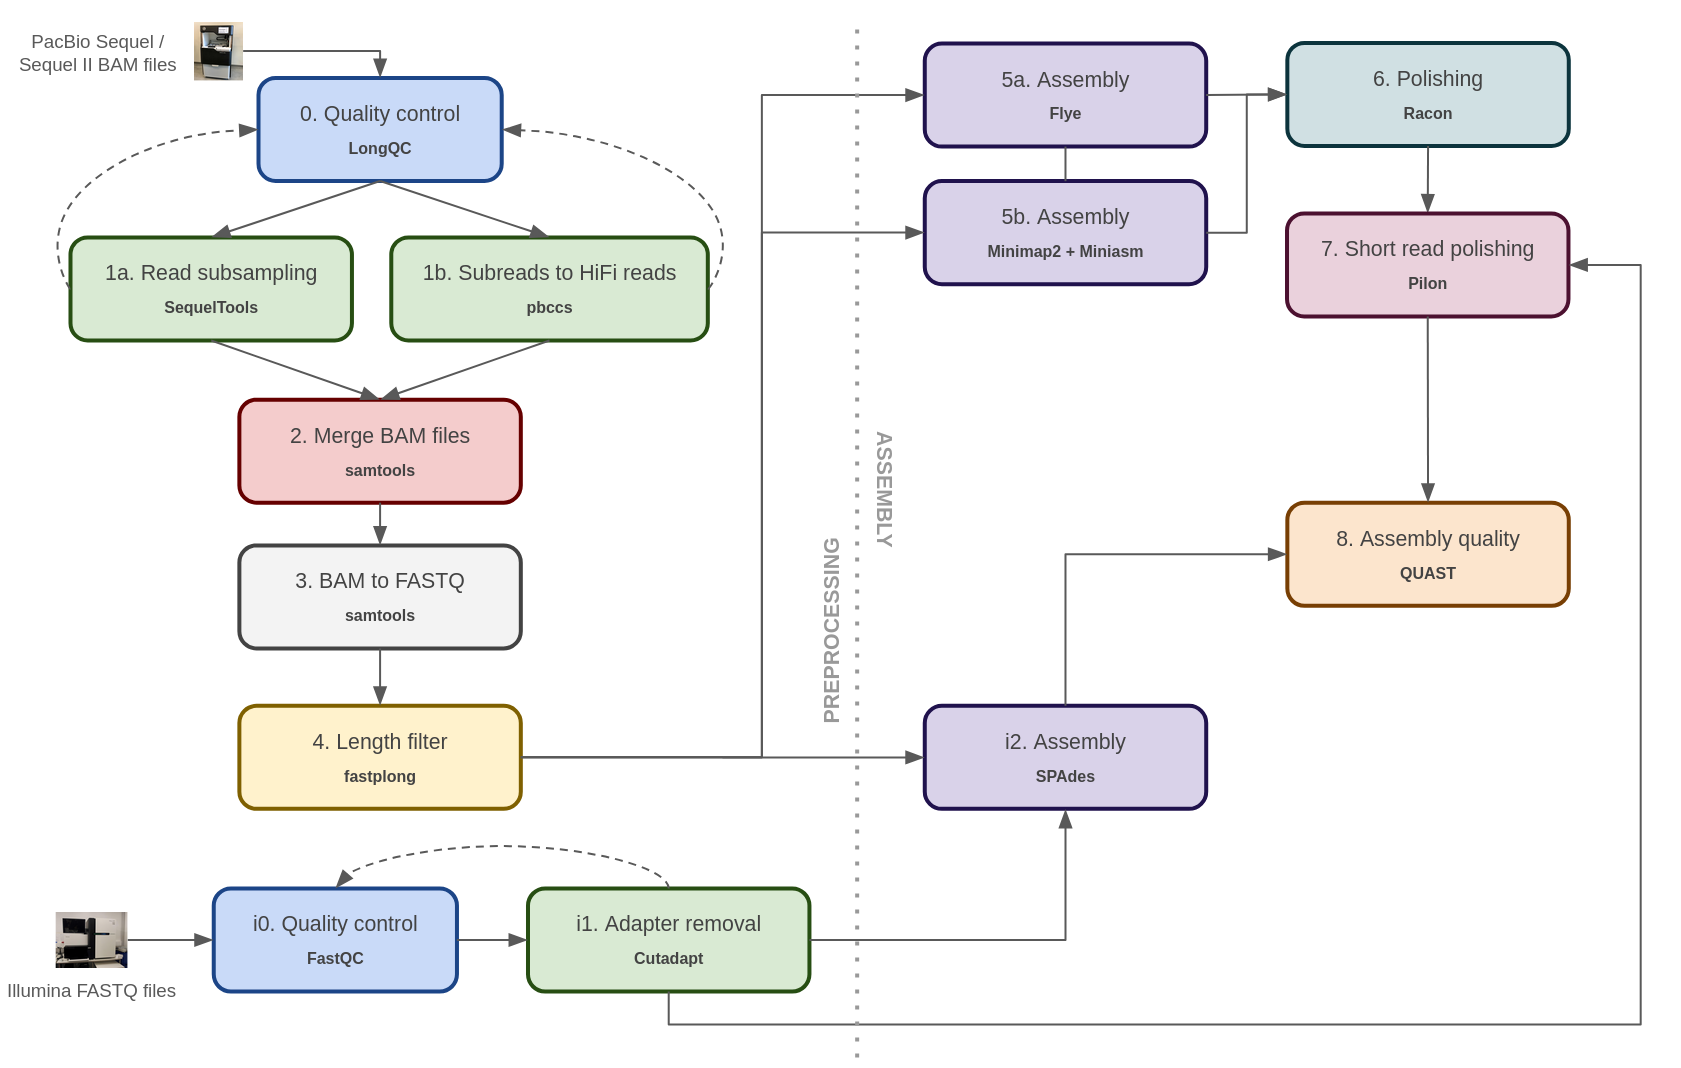
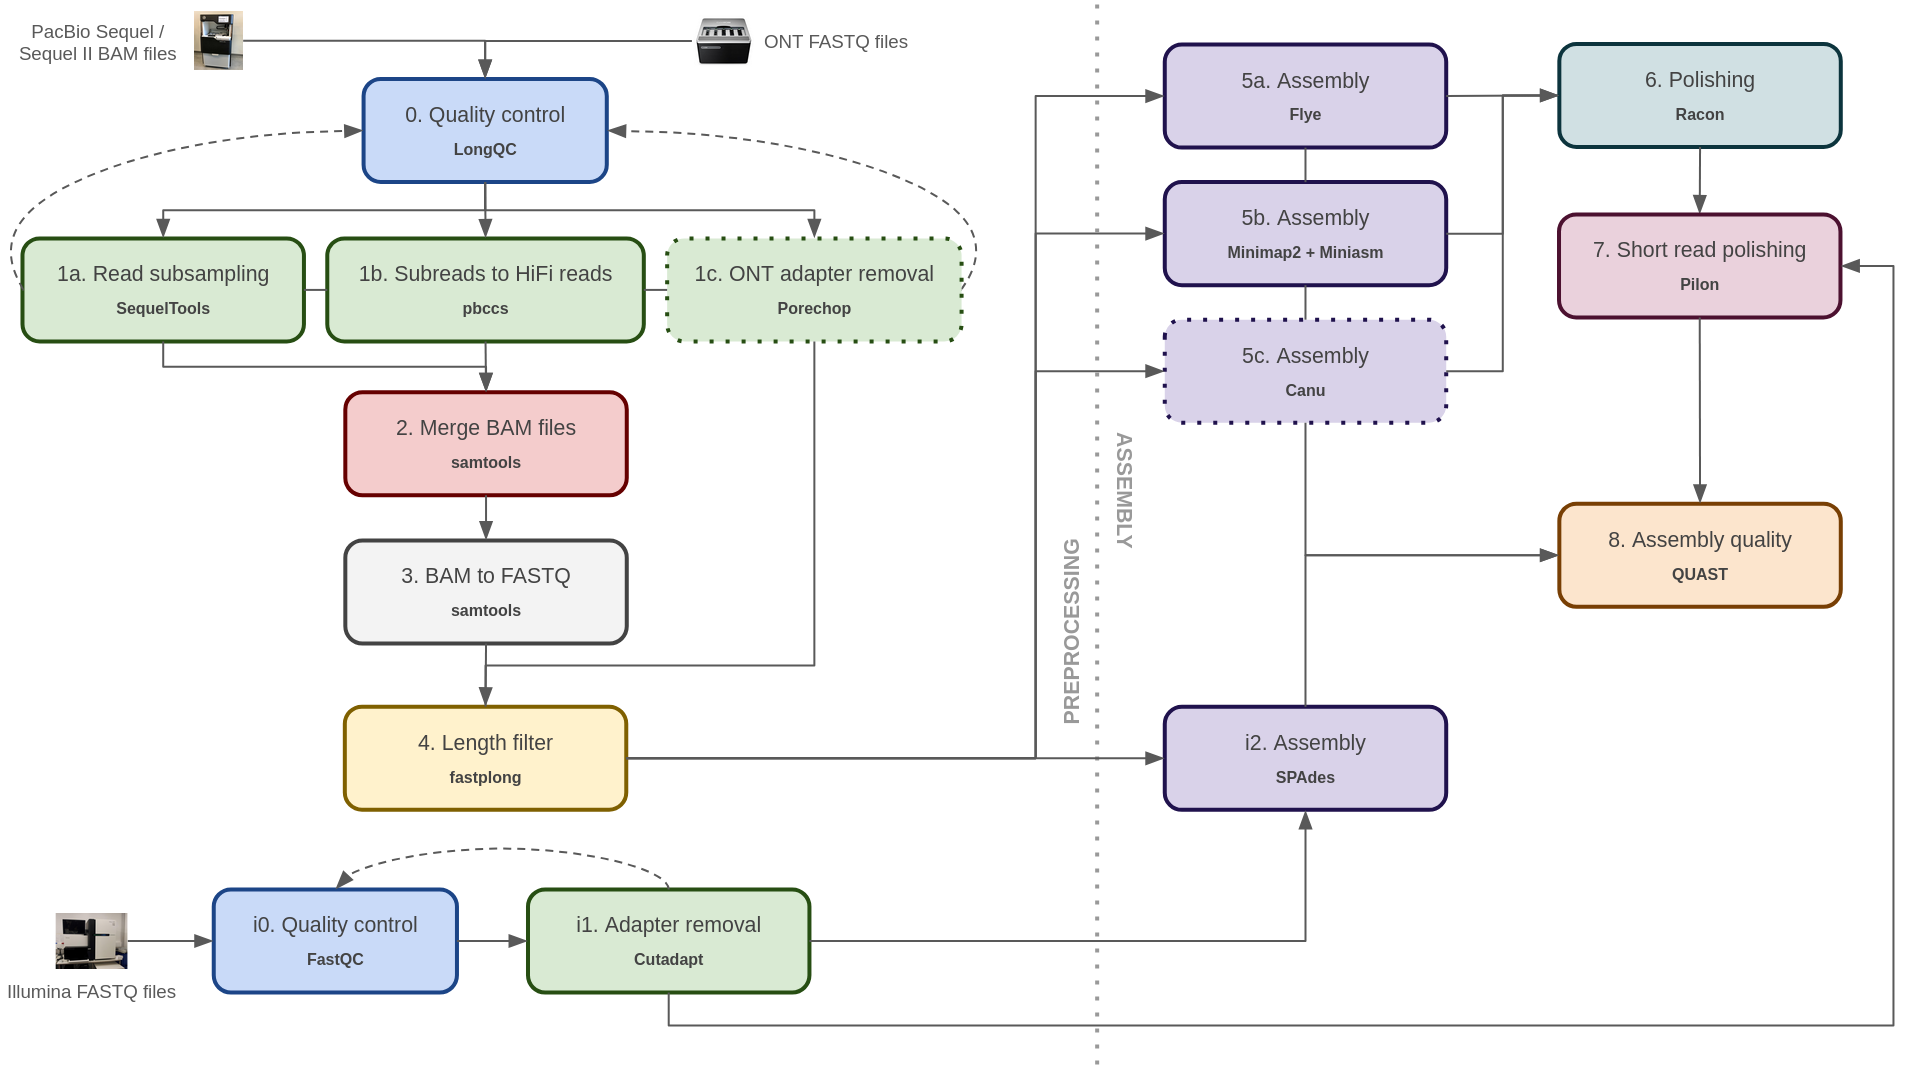
update workflow details and examples, add ONT to preliminar workflow

diff --git a/README.md b/README.md
@@ -1,8 +1,10 @@
 # Fungal Genome Assembly Workflow 🧬🍄
 
-This repository provides a modular, bash-based workflow for fungal genome assembly using PacBio and/or Illumina reads.
+This repository provides a modular, bash-based workflow for fungal genome assembly using PacBio, ONT and/or Illumina reads.
 
 <img src="./img/workflow.png">
+
+Modules with dotted lines are not implemented yet.
 
 ## Before you start
 
@@ -59,13 +61,14 @@ Each module creates logs in your project directory under `/logs`.
 
 For full details on parameters, see comments in `config.sh`. For a visual understanding of the workflow, see the picture above.
 
-## Example: PacBio HiFi assembly from raw subreads
+## Examples
 
 ```bash
+# PacBio HiFi assembly from raw subreads
 ./daemon.sh 0         # Quality Control
 ./daemon.sh 1b        # Convert to CCS (HiFi) [OPTIONAL]
 ./daemon.sh 0 -r      # Repeat QC on processed reads
-./daemon.sh 2         # Merge cells [OPTIONAL]
+./daemon.sh 2         # Merge SMRT cells [OPTIONAL]
 ./daemon.sh 3         # Convert BAM to FASTQ
 ./daemon.sh 4         # Filter by length [OPTIONAL]
 ./daemon.sh 5a        # Assemble with Flye
@@ -74,6 +77,30 @@ For full details on parameters, see comments in `config.sh`. For a visual unders
 ./daemon.sh i1        # Adapter trimming [OPTIONAL]
 ./daemon.sh i0 -r     # Repeat QC on processed short reads
 ./daemon.sh 7         # Polish assembly with short reads
+./daemon.sh 8         # Assess assembly quality
+
+
+# Illumina and PacBio subread hybrid assembly
+./daemon.sh i0        # Quality control of short reads
+./daemon.sh i1        # Adapter trimming [OPTIONAL]
+./daemon.sh i0 -r     # Repeat QC on processed short reads
+./daemon.sh 0         # Quality Control
+./daemon.sh 2         # Merge SMRT cells [OPTIONAL]
+./daemon.sh 3         # Convert BAM to FASTQ
+./daemon.sh 4         # Filter by length [OPTIONAL]
+./daemon.sh i2        # Assemble with SPAdes
+./daemon.sh 6         # Polish assembly
+./daemon.sh 7         # Polish assembly with short reads
+./daemon.sh 8         # Assess assembly quality
+
+
+# ONT assembly without short reads
+./daemon.sh 0         # Quality Control
+./daemon.sh 1c        # ONT Adapter trimming [OPTIONAL]
+./daemon.sh 0 -r      # Repeat QC on processed reads
+./daemon.sh 4         # Filter by length [OPTIONAL]
+./daemon.sh 5a        # Assemble with Flye
+./daemon.sh 6         # Polish assembly
 ./daemon.sh 8         # Assess assembly quality
 ```
 
